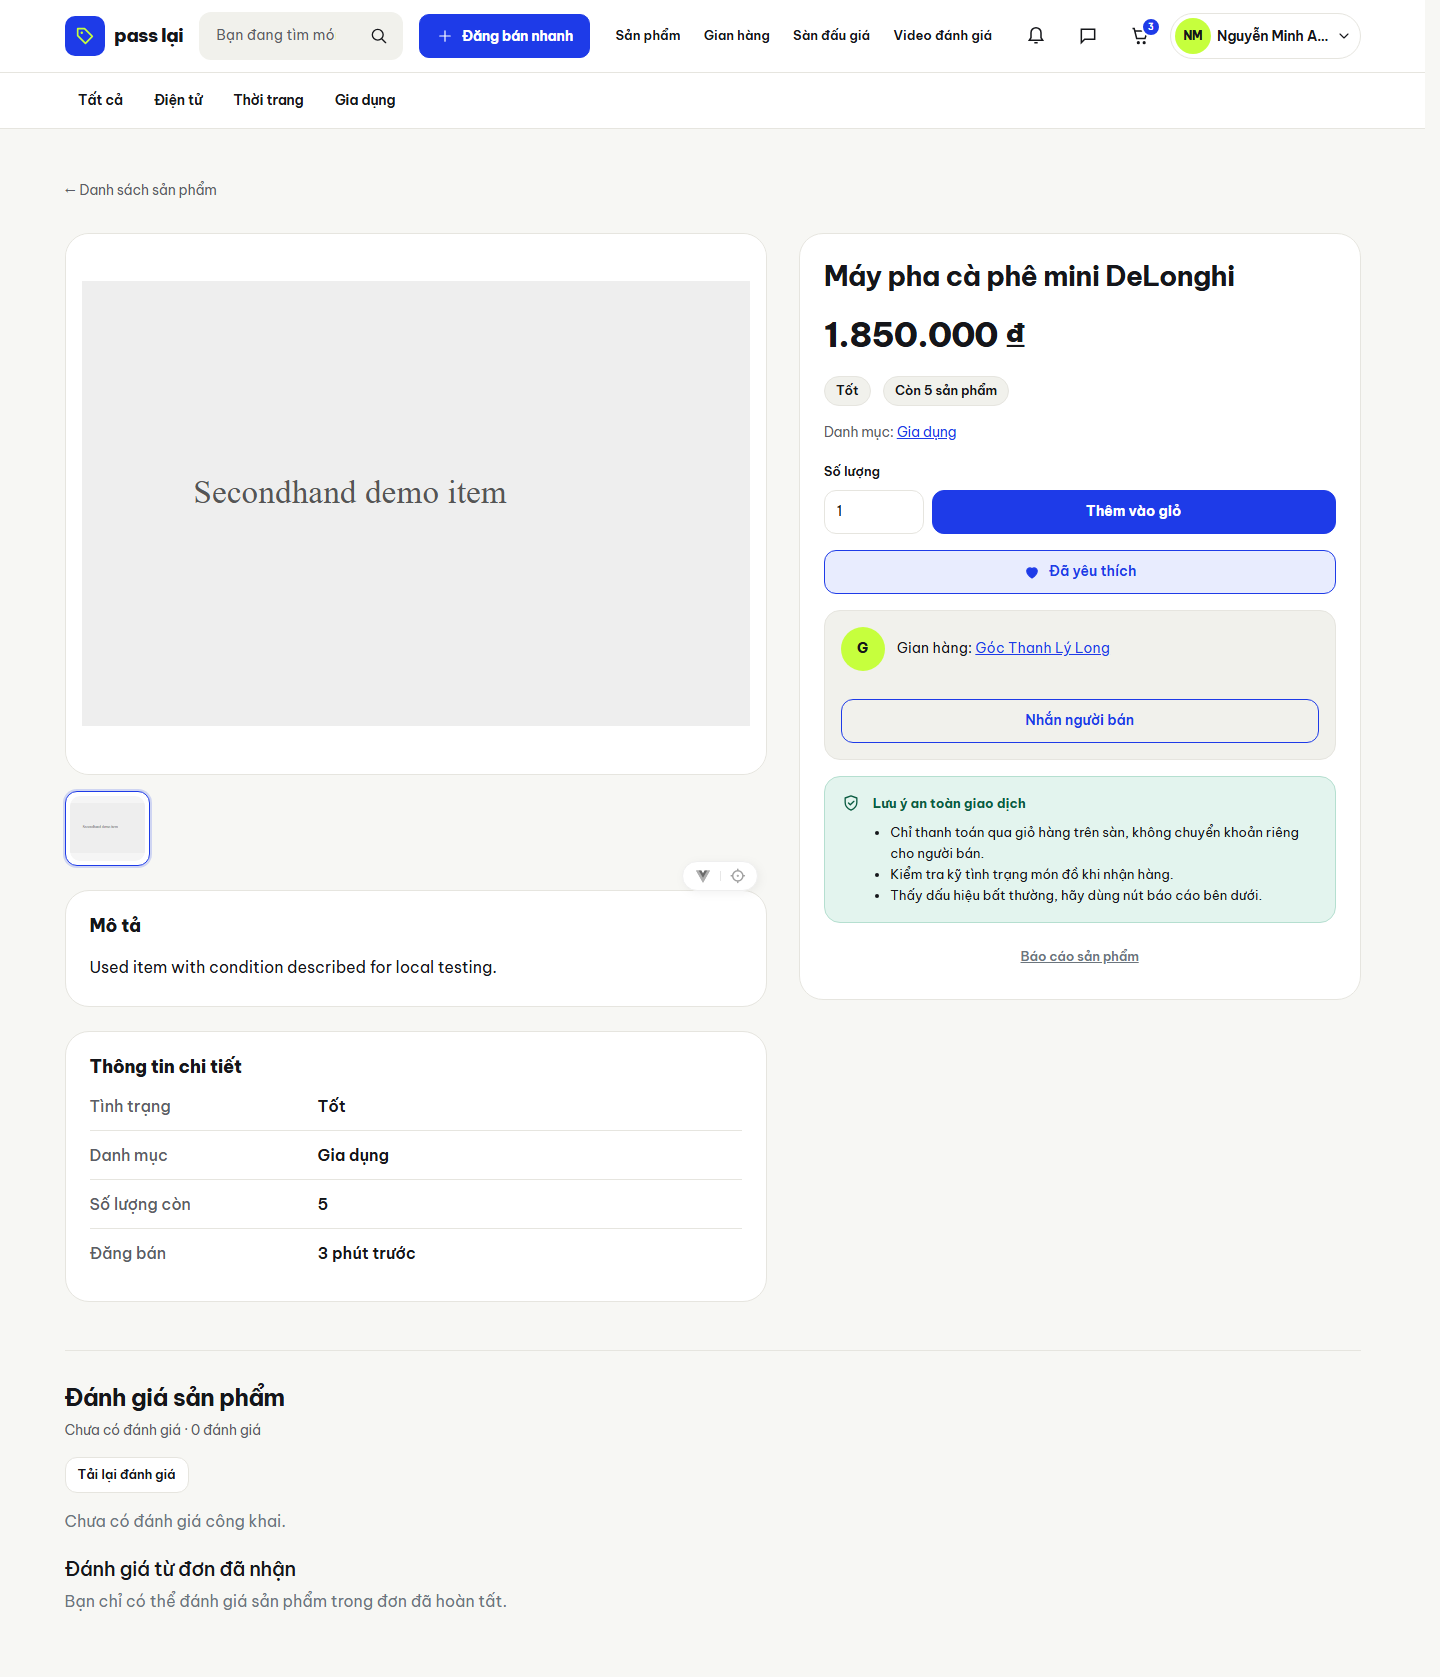
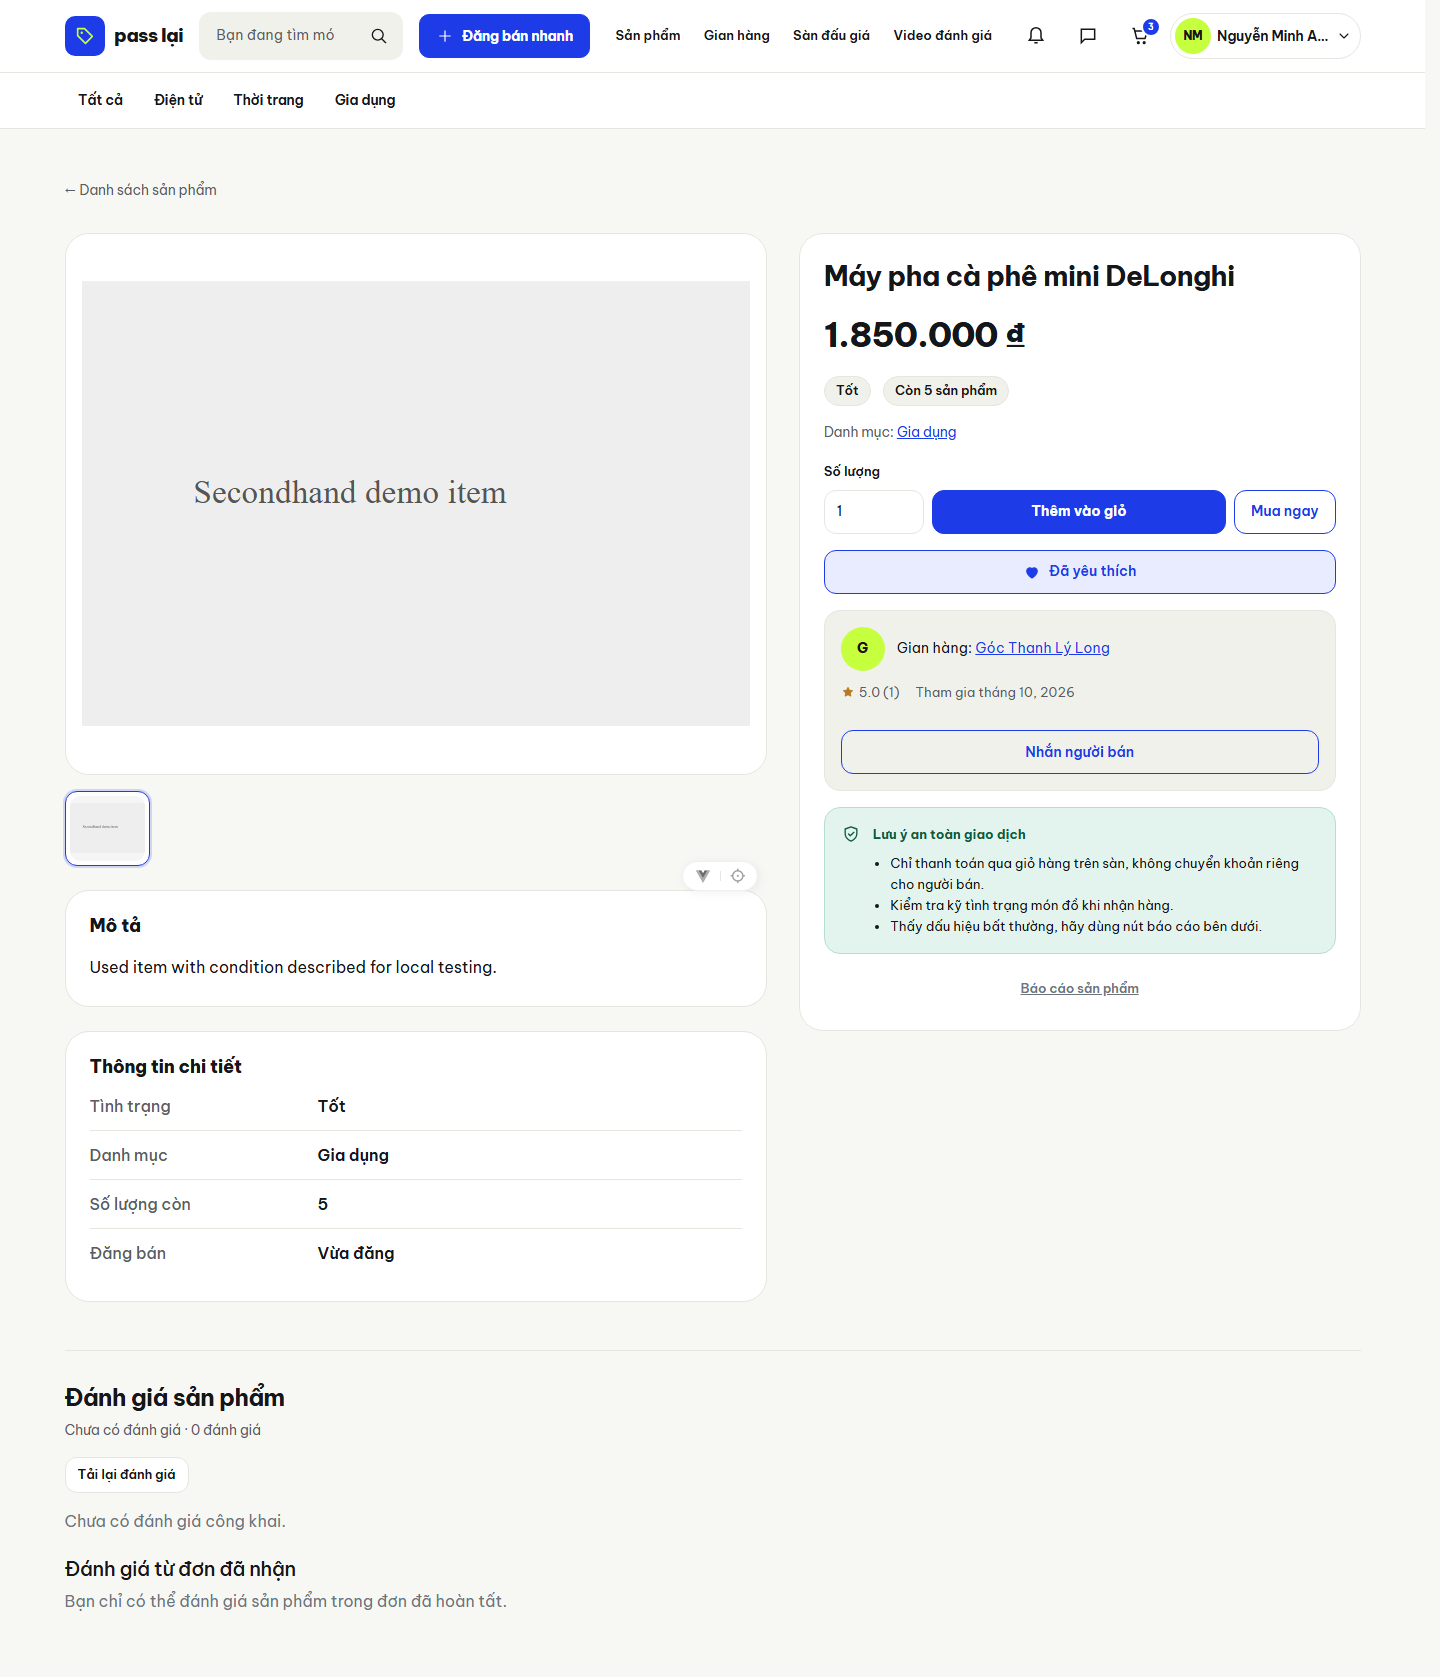
docs(ui): signed-in review, seller card stats, buy now; D6 still open

diff --git a/docs/api-summary.md b/docs/api-summary.md
@@ -39,6 +39,7 @@ Methods/paths below are relative to `/api/v1`, except the CSRF endpoint. All non
 | Admin users/reviews | GET `/admin/users`, `/admin/users/{id}`, `/admin/reviews`, `/admin/reviews/{id}`; PATCH corresponding `/{id}/status` | ADMIN status/moderation only; reason/expected_status, self/last-admin guards; no arbitrary role change or review-text editing |
 | Admin overview | GET `/admin/dashboard`, `/admin/orders`, `/admin/orders/{id}` | ADMIN read-only summaries/history; no fulfillment override/refund/payment-management endpoint |
 | Admin action center (D5) | GET `/admin/action-center`; GET `/admin/payments`, `/admin/payments/{id}`; POST `/admin/payments/{id}/reconciliation`; GET `/admin/auctions`; POST `/admin/auctions/{id}/cancel`; `/admin/users?flagged=1` | ADMIN; aggregate counts; reconciliation `outcome` (`REFUNDED_OUTSIDE`/`KEEP_PAID`) + `note` + `expected_status`; auction cancel `reason` + `expected_status`; no gateway URL/MAC/payload in responses; no refund API is ever called |
+| Product card and buy now (2026-10-14) | GET `/products`, `/products/{slug}` and other product lists; POST `/checkout` | Product payload adds `has_video` (a READY video exists; same condition as the `has_video` filter) and `shop.rating_avg`, `shop.rating_count` (published reviews across the shop), `shop.joined_at`; all computed in the list query. Checkout accepts optional `cart_item_ids` (distinct cart item ids of the buyer): only those lines are ordered, the rest stay in the cart, and the selection is part of the idempotency hash |
 | Recommendations (D7) | GET `/recommendations?limit=12`; GET `/products/{slug}/similar?limit=8` | Public, sign-in optional; `limit` 1–24; deterministic weighted score with `reason_label` (Vietnamese) per product; ranking cached 10 minutes per user, products and `is_wishlisted` re-read live; similar = same or parent category, price within ±50 %, same shop first. Signed-in `GET /products/{slug}` and `GET /products?q=` also write `product_views` / `search_logs` (never for guests, no IP) |
 
 For the image row, complete child paths are `/seller/products/{id}/images/reorder` and `/seller/products/{id}/images/{imageId}`. Slugs are public catalog identifiers; numeric IDs identify managed/owned records. Buyer Order ID and seller ShopOrder ID are different resources and must not be interchanged.

diff --git a/docs/ui-redesign-verification.md b/docs/ui-redesign-verification.md
@@ -61,3 +61,19 @@ Không có test nào bị sửa để che một thay đổi hành vi.
 - Chưa đo contrast tự động; mới kiểm tay các cặp màu token.
 - Font vẫn nạp từ Google Fonts.
 - `backend/CLAUDE.md` vẫn mâu thuẫn với `CLAUDE.md` gốc, chưa xử lý.
+
+## Bổ sung 2026-10-14: rà trang đăng nhập, thẻ người bán, Mua ngay
+
+| Phần | Commit | Kết quả |
+| --- | --- | --- |
+| A – tour mở ở mọi lần vào trang; rà trang đăng nhập | `a4c67f7` | PASS |
+| B – `shop.rating_avg`, `rating_count`, `joined_at` | `7ccbbde` | PASS |
+| C – Mua ngay (`cart_item_ids` ở checkout) | `018c5d4` | PASS |
+| D – D6 Voucher | — | **CHƯA LÀM**: chưa có đề bài D6 |
+
+- Số liệu cuối: backend **460 test / 5.137 assertions PASS**, Pint PASS; frontend **472 test / 38 file PASS**; oxlint, ESLint, build PASS.
+- Rà trang đăng nhập: stack riêng (PHP :8001 với `APP_ENV=testing`, Vite :5174, Edge headless), fixture tạo bằng script chỉ chạy trên DB test. 27 trang × 2 bề rộng: không tràn ngang, 0 lỗi JS. Tour: focus nằm trong hộp thoại, ESC đóng và lưu cờ, tải lại không mở lại.
+- Lỗi hiển thị tìm thấy và đã sửa: nút "Điều hướng gian hàng/quản trị" hiện sai trên desktop; logo trong shell bị viết hoa và xám; nhãn top bar, giá đơn và tổng tiền bị xuống dòng trên điện thoại.
+- Dọn dẹp: đã dừng ba tiến trình của stack, xóa fixture trong DB test, xóa 16 file session tạo sau mốc bắt đầu. DB dev: 24 bảng nghiệp vụ không đổi mã băm.
+- Mua ngay: checkout cũ chỉ đặt cả giỏ, nên thêm tham số tùy chọn `cart_item_ids`. Hash idempotency có danh sách item (đã sắp xếp); yêu cầu đặt cả giỏ giữ nguyên hash cũ. Item không chọn, kể cả item đang không mua được, không chặn đơn và vẫn nằm trong giỏ.
+- Các quyết định 1, 2 và 8 ở trên đã được thay thế: có "Mua ngay", thẻ người bán có sao và tháng tham gia, tour mở ở mọi lần vào trang cho tới khi xem xong hoặc bỏ qua.

diff --git a/README.md b/README.md
@@ -275,4 +275,4 @@ Start with the [final project index](docs/final-project-index.md). It separates 
 - [Security](docs/final-security-summary.md) and [testing summary](docs/final-testing-summary.md): controls, C1 totals and explicit external/production limits.
 - [7–10 minute defense demo](docs/demo-script.md) and [Q&A](docs/defense-qa.md): preparation, clicks/talking points/results and fallbacks.
 
-Current automated totals after D7 (2026-10-13): **455 backend tests / 5,059 assertions**, **456 frontend tests / 37 files**, Pint/lint/build PASS; no new browser pass was run for D7. After D5 the totals were 444 / 4,950 and 449 / 36, with a D5 browser pass at 1440/1024/768/390 px on an isolated test stack. Historical C1 local-demo baseline: **352 backend tests / 3,504 assertions**, **355 frontend tests / 28 files**, **166 actual browser checks**, Pint/lint/build PASS. C2 is documentation-only and does not imply another regression run or production certification. Sandbox creation is verified; completed real payment/callback remains unverified manually. No real password/secret is included in the defense material.
+Current automated totals after the UI redesign, seller card stats and buy now (2026-10-14): **460 backend tests / 5,137 assertions**, **472 frontend tests / 38 files**, Pint/lint/build PASS, plus a browser pass at 1440/390 px (public pages on the dev server as a guest; signed-in pages on an isolated stack bound to the test database). See [UI redesign verification](docs/ui-redesign-verification.md). **D6 Vouchers is not implemented.** After D7 the totals were 455 / 5,059 and 456 / 37. After D5 the totals were 444 / 4,950 and 449 / 36, with a D5 browser pass at 1440/1024/768/390 px on an isolated test stack. Historical C1 local-demo baseline: **352 backend tests / 3,504 assertions**, **355 frontend tests / 28 files**, **166 actual browser checks**, Pint/lint/build PASS. C2 is documentation-only and does not imply another regression run or production certification. Sandbox creation is verified; completed real payment/callback remains unverified manually. No real password/secret is included in the defense material.

diff --git a/docs/final-project-index.md b/docs/final-project-index.md
@@ -36,6 +36,7 @@ Original requirements/database-design/use-cases/state-transitions are historical
 - Settlement values are exactly `null` / `NO_WINNER` / `AWAITING_CHECKOUT` / `ORDER_CREATED` / `CHECKOUT_EXPIRED`, computed by `Auction::settlementState()` on every read. They are not a database column or enum; older planning names for these states are not used anywhere in code or API.
 - Extensions D1 search, D2 wishlist, D3 reports and **D4 Seller Inventory & Action Center are delivered ✅** ([D4 verification](extension-d4-seller-inventory-verification.md)). Post-audit corrections: [fix wave 1–2 verification](fix-wave-1-2-verification.md).
 - **D5 Admin Action Center is delivered ✅** ([D5 verification](extension-d5-admin-action-center-verification.md)): aggregate work queue at `/admin`, ZaloPay reconciliation decisions, Admin auction cancellation, the rule that a running auction must be cancelled before its product is hidden, automatic auction cancellation when a shop is suspended, and report moderation fixes.
+- **UI redesign (rounds 0–7), seller card stats and buy now are delivered ✅** ([verification](ui-redesign-verification.md)): design tokens, new header and listing cards, dark auction theme, first-time onboarding; `ProductResource` adds `has_video` and `shop.rating_avg` / `rating_count` / `joined_at`; `POST /checkout` accepts an optional `cart_item_ids` selection used by "Mua ngay". **D6 Vouchers is not implemented** (no specification was provided).
 - **D7 Recommendations is delivered ✅** ([scoring formula](recommendation-scoring.md)): `GET /recommendations` and `GET /products/{slug}/similar`, the "Gợi ý cho bạn" home section and the "Sản phẩm tương tự" product-detail section, plus the additive `product_views` and `search_logs` tables. D6 was skipped by decision; D7 was built directly on the D5 commit.
 - VNPAY/REFUNDED and video PROCESSING/FAILED schema values do not prove delivered VNPAY/refund/transcoding workflows.
 - Messaging polls; Reverb serves auctions/notifications/comments. Expiry is derived rather than a scheduler-written settlement enum.

diff --git a/docs/final-testing-summary.md b/docs/final-testing-summary.md
@@ -12,7 +12,9 @@ Verified **FINAL C1 on 2026-10-09**, reused for documentation-only C2. No applic
 | Pint / lint / production build | PASS / PASS / PASS |
 | Seeder/data/cleanup | Identical rerun across 22 business tables; original rows unchanged; temporary records/uploads removed |
 
-**Current automated totals — D7, run on 2026-10-13 with PHP 8.4.25:** backend **455 tests / 5,059 assertions PASS**, frontend **456 tests / 37 files PASS**, Pint, oxlint, ESLint and production build PASS. No browser pass was run for D7. Details: [recommendation scoring](recommendation-scoring.md).
+**Current automated totals — UI redesign, seller card stats, buy now; run on 2026-10-14 with PHP 8.4.25:** backend **460 tests / 5,137 assertions PASS**, frontend **472 tests / 38 files PASS**, Pint, oxlint, ESLint and production build PASS. Browser pass at 1440/390 px: public pages as a guest on the dev server, signed-in pages (cart, checkout, orders, account, seller, admin, first-time tour) on an isolated stack bound to the test database, fixtures removed afterwards. Details: [UI redesign verification](ui-redesign-verification.md).
+
+**Previous totals — D7, run on 2026-10-13 with PHP 8.4.25:** backend **455 tests / 5,059 assertions PASS**, frontend **456 tests / 37 files PASS**, Pint, oxlint, ESLint and production build PASS. No browser pass was run for D7. Details: [recommendation scoring](recommendation-scoring.md).
 
 **Previous totals — D5, run on 2026-10-13 with PHP 8.4.25:** backend **444 tests / 4,950 assertions PASS**, frontend **449 tests / 36 files PASS**, Pint, oxlint, ESLint and production build PASS; a D5 browser pass (4 viewports, 9 flows, zero JS exceptions) ran on an isolated stack bound to the test database. Details: [D5 verification](extension-d5-admin-action-center-verification.md).
 
